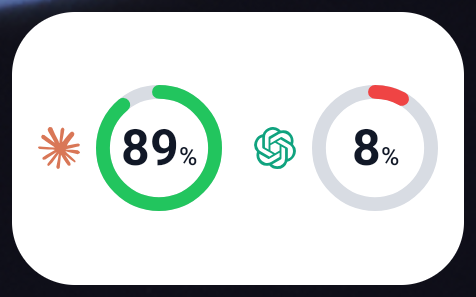
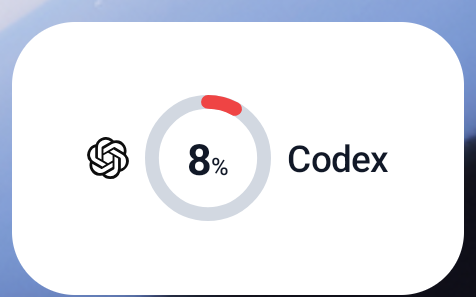
feat(android): a Gemini card, three rings on the 4x2, a headline on the 2x1
The 2 x 1 cell keeps its pair while two providers report; a third would leave rings too
small to read at arm's length, so it collapses to the provider closest to its limit. The
4 x 2 divides its width by the number of columns actually drawn instead of assuming two.

Codex takes OpenAI's monochrome — near-white on dark, near-black on light — and the
Gemini mark keeps the Google gradient in the drawable, because a flat tint of that logo
is a different logo. Its arc flags are spaced out: Android's path parser silently draws
a blob for the packed "01" form the SVG uses.

Captured on emulator-5554: android/docs/screenshots/.

Changed region(s): [[0.0882, 0.2727, 0.9412, 0.7576], [0.0, 0.0, 1.0, 1.0], [0.9706, 0.7879, 1.0, 0.8182]]

diff --git a/android/app/src/main/kotlin/com/gorisse/thomas/quota/widget/QuotaWidget.kt b/android/app/src/main/kotlin/com/gorisse/thomas/quota/widget/QuotaWidget.kt
@@ -33,7 +33,6 @@ import androidx.glance.layout.size
 import androidx.glance.text.FontWeight
 import androidx.glance.text.Text
 import androidx.glance.text.TextStyle
-import androidx.glance.unit.ColorProvider
 import com.gorisse.thomas.quota.MainActivity
 import com.gorisse.thomas.quota.R
 import com.gorisse.thomas.quota.data.DisplayMode
@@ -50,8 +49,8 @@ import com.gorisse.thomas.quota.ui.theme.accent
 import com.gorisse.thomas.quota.ui.theme.argb
 
 /**
- * Two layouts, chosen by cell size: 2×1 shows the two 5 h rings, 4×2 shows every window with
- * its label. The widget never fetches — [RefreshWorker] does, then calls `updateAll`.
+ * Two layouts, chosen by cell size: 2×1 shows the headline rings, 4×2 shows every window
+ * with its label. The widget never fetches — [RefreshWorker] does, then calls `updateAll`.
  */
 class QuotaWidget : GlanceAppWidget() {
 
@@ -120,12 +119,13 @@ private fun SmallContent(snapshot: Snapshot, mode: DisplayMode) {
     val stale = snapshot.isStale()
     val size = LocalSize.current
     val height = size.height.value
-    // The card takes 4 dp a side, each half then takes 6 dp a side (see the Row below).
-    val perHalf = size.width.value / 2 - 4 - 2 * 6
-    val diameter = minOf(height - 30, perHalf - SMALL_MARK_DP - SMALL_GAP_DP).toInt()
+    val shown = snapshot.smallProviders()
+    // The card takes 4 dp a side, each share then takes 6 dp a side (see the Row below).
+    val perShare = size.width.value / shown.size - 4 - 2 * 6
+    val diameter = minOf(height - 30, perShare - SMALL_MARK_DP - SMALL_GAP_DP).toInt()
     val ringFits = height >= 56 && diameter >= 30
     Row(GlanceModifier.fillMaxWidth(), verticalAlignment = Alignment.Vertical.CenterVertically) {
-        ProviderId.entries.forEach { id ->
+        shown.forEach { id ->
             val window = snapshot.status.providers[id.key]?.sessionWindow()
             Row(
                 // Without this the second provider's mark sits closer to the first
@@ -138,6 +138,16 @@ private fun SmallContent(snapshot: Snapshot, mode: DisplayMode) {
                     ProviderMark(id, sizeDp = SMALL_MARK_DP)
                     Spacer(GlanceModifier.size(SMALL_GAP_DP.dp))
                     MiniRing(window, stale, diameterDp = diameter.coerceAtMost(48), mode = mode)
+                    if (shown.size == 1) {
+                        // Alone in the cell, the headline can afford to name itself.
+                        Spacer(GlanceModifier.size(SMALL_GAP_DP.dp))
+                        Text(
+                            id.displayName,
+                            style = TextStyle(color = primaryText(), fontSize = 14.sp,
+                                fontWeight = FontWeight.Medium),
+                            maxLines = 1,
+                        )
+                    }
                 } else {
                     // Too tight for a ring at all: the mark and the number, nothing else.
                     ProviderMark(id, sizeDp = 14)
@@ -159,12 +169,17 @@ private fun LargeContent(snapshot: Snapshot, mode: DisplayMode) {
     val stale = snapshot.isStale()
     // Two rings per provider at most: five rings on a 7 cm cell rendered ~6sp values.
     val columns = snapshot.orderedProviders().maxOfOrNull { (_, p) -> p.widgetWindows(2).size } ?: 1
+    // Three providers share the same cell as two did, so the width has to be divided by the
+    // number of columns actually drawn — otherwise the third one's rings overflow their share.
+    val providers = snapshot.orderedProviders().size.coerceAtLeast(1)
     // The cell also has to fit a header, a provider name, a label, a reset time and the
     // footer: give the ring what is left, not what the width alone would allow.
     val diameter = minOf(
-        (LocalSize.current.width.value - 56) / (columns * 2),
+        (LocalSize.current.width.value - 24 - 8 * providers) / (providers * columns) - 4,
         LocalSize.current.height.value - 100,
-    ).toInt().coerceIn(36, 58)
+    ).toInt().coerceIn(28, 58)
+    // Three columns cannot also carry the plan chip: the provider name alone has to fit.
+    val roomy = providers <= 2
     Column(GlanceModifier.fillMaxSize(), verticalAlignment = Alignment.Vertical.CenterVertically) {
         Row(GlanceModifier.fillMaxWidth(), verticalAlignment = Alignment.Vertical.CenterVertically) {
             Text("Quota", style = TextStyle(color = primaryText(), fontSize = 14.sp, fontWeight = FontWeight.Bold))
@@ -185,8 +200,9 @@ private fun LargeContent(snapshot: Snapshot, mode: DisplayMode) {
                     Row(verticalAlignment = Alignment.Vertical.CenterVertically) {
                         ProviderMark(ProviderId.of(name.lowercase()))
                         Spacer(GlanceModifier.size(5.dp))
-                        Text(name, style = TextStyle(color = primaryText(), fontSize = 13.sp, fontWeight = FontWeight.Bold))
-                        provider.plan?.let {
+                        Text(name, style = TextStyle(color = primaryText(),
+                            fontSize = if (roomy) 13.sp else 12.sp, fontWeight = FontWeight.Bold), maxLines = 1)
+                        if (roomy) provider.plan?.let {
                             Text(" · " + it.replaceFirstChar(Char::uppercase),
                                 style = TextStyle(color = secondaryText(), fontSize = 11.sp), maxLines = 1)
                         }
@@ -197,10 +213,12 @@ private fun LargeContent(snapshot: Snapshot, mode: DisplayMode) {
                             Column(GlanceModifier.defaultWeight(), horizontalAlignment = Alignment.Horizontal.CenterHorizontally) {
                                 MiniRing(window, stale, diameter, mode)
                                 Spacer(GlanceModifier.size(2.dp))
-                                Text(window.label, style = TextStyle(color = primaryText(), fontSize = 12.sp,
+                                Text(window.label, style = TextStyle(color = primaryText(),
+                                    fontSize = if (roomy) 12.sp else 11.sp,
                                     fontWeight = FontWeight.Medium), maxLines = 1)
                                 Text(formatResetsInShort(window.resetsIn()),
-                                    style = TextStyle(color = secondaryText(), fontSize = 11.sp), maxLines = 1)
+                                    style = TextStyle(color = secondaryText(),
+                                        fontSize = if (roomy) 11.sp else 10.sp), maxLines = 1)
                             }
                         }
                     }
@@ -284,18 +302,48 @@ private fun MiniRing(window: Window?, stale: Boolean, diameterDp: Int, mode: Dis
     }
 }
 
-/** The real brand mark, tinted with the provider accent — the same one the app shows. */
+/**
+ * The real brand mark, the same one the app shows. Claude and Codex are tinted with their
+ * accent — a day/night pair for Codex, whose brand is monochrome and would otherwise vanish
+ * against one of the two surfaces. The Gemini mark keeps the gradient baked in its drawable.
+ */
 @Composable
 private fun ProviderMark(id: ProviderId?, sizeDp: Int = 14) {
     if (id == null) return
+    if (id == ProviderId.GEMINI) {
+        Image(
+            provider = ImageProvider(R.drawable.ic_brand_gemini),
+            contentDescription = null,
+            modifier = GlanceModifier.size(sizeDp.dp),
+        )
+        return
+    }
     Image(
         provider = ImageProvider(
             if (id == ProviderId.CODEX) R.drawable.ic_brand_openai else R.drawable.ic_brand_claude,
         ),
         contentDescription = null,
-        colorFilter = ColorFilter.tint(ColorProvider(id.accent)),
+        colorFilter = ColorFilter.tint(
+            DayNightColorProvider(day = id.accent(dark = false), night = id.accent(dark = true)),
+        ),
         modifier = GlanceModifier.size(sizeDp.dp),
     )
+}
+
+/**
+ * Which providers a 2 x 1 cell shows. One or two are drawn side by side, as they always
+ * were; a third would leave rings too small to read at arm's length, so the row collapses to
+ * the headline — the provider closest to its limit.
+ */
+private fun Snapshot.smallProviders(): List<ProviderId> {
+    val reported = ProviderId.entries.filter {
+        status.providers[it.key]?.windows.orEmpty().isNotEmpty()
+    }
+    return when {
+        reported.isEmpty() -> listOf(ProviderId.CLAUDE, ProviderId.CODEX)
+        reported.size <= 2 -> reported
+        else -> listOf(reported.maxBy { status.providers[it.key]?.sessionWindow()?.percent ?: -1 })
+    }
 }
 
 private fun Provider.sessionWindow(): Window? = widgetWindows(1).firstOrNull()

diff --git a/android/app/src/main/kotlin/com/gorisse/thomas/quota/ui/Brand.kt b/android/app/src/main/kotlin/com/gorisse/thomas/quota/ui/Brand.kt
@@ -20,6 +20,7 @@ import androidx.compose.ui.unit.sp
 import com.gorisse.thomas.quota.R
 import com.gorisse.thomas.quota.data.ProviderId
 import com.gorisse.thomas.quota.ui.theme.accent
+import com.gorisse.thomas.quota.ui.theme.accentBrush
 
 @Composable
 fun QuotaWordmark(modifier: Modifier = Modifier) {
@@ -35,27 +36,44 @@ fun QuotaWordmark(modifier: Modifier = Modifier) {
 }
 
 /**
- * The providers' real marks: `docs/brand/claude.svg` and `docs/brand/openai.svg`, converted
- * to 24 × 24 vector drawables, tinted with the provider accent inside its rounded square.
+ * The providers' real marks: `docs/brand/claude.svg`, `openai.svg` and `gemini.svg`,
+ * converted to 24 × 24 vector drawables inside a rounded square of their own accent.
+ *
+ * Claude and Codex are single-colour marks and take the accent as a tint. The Gemini mark
+ * carries the Google sweep in the drawable itself, so it is drawn untinted and its tile
+ * takes the same sweep rather than a flat wash.
  */
 @Composable
 fun ProviderMark(id: ProviderId?, modifier: Modifier = Modifier, size: Dp = 32.dp) {
-    val color = id?.accent ?: MaterialTheme.colorScheme.onSurfaceVariant
+    val fallback = MaterialTheme.colorScheme.onSurfaceVariant
+    val color = id?.accent() ?: fallback
     Box(
         modifier = modifier
             .size(size)
-            .background(color.copy(alpha = 0.12f), RoundedCornerShape(size / 4)),
+            .background(
+                brush = id?.accentBrush(0.12f) ?: androidx.compose.ui.graphics.SolidColor(fallback.copy(alpha = 0.12f)),
+                shape = RoundedCornerShape(size / 4),
+            ),
         contentAlignment = Alignment.Center,
     ) {
         val mark = when (id) {
             ProviderId.CODEX -> R.drawable.ic_brand_openai
+            ProviderId.GEMINI -> R.drawable.ic_brand_gemini
             else -> R.drawable.ic_brand_claude
         }
-        Icon(
-            painter = painterResource(mark),
-            contentDescription = null,
-            tint = color,
-            modifier = Modifier.size(size * 0.58f),
-        )
+        if (id == ProviderId.GEMINI) {
+            androidx.compose.foundation.Image(
+                painter = painterResource(mark),
+                contentDescription = null,
+                modifier = Modifier.size(size * 0.58f),
+            )
+        } else {
+            Icon(
+                painter = painterResource(mark),
+                contentDescription = null,
+                tint = color,
+                modifier = Modifier.size(size * 0.58f),
+            )
+        }
     }
 }

diff --git a/android/app/src/main/kotlin/com/gorisse/thomas/quota/ui/theme/Color.kt b/android/app/src/main/kotlin/com/gorisse/thomas/quota/ui/theme/Color.kt
@@ -25,7 +25,21 @@ object QuotaColors {
     val Stale = Color(0xFF6B7280)
 
     val Claude = Color(0xFFD97757)
-    val Codex = Color(0xFF10A37F)
+
+    /**
+     * OpenAI retired the ChatGPT green in its 2025 rebrand and is monochrome now. Their black
+     * would vanish on [BackgroundDark], so each theme takes its own end of the pair.
+     */
+    val CodexDark = Color(0xFFECECEC)
+    val CodexLight = Color(0xFF0D0D0D)
+
+    /** The Gemini mark is a blue → violet → pink sweep, drawn as one wherever it is cheap. */
+    val GeminiStart = Color(0xFF4285F4)
+    val GeminiMid = Color(0xFF9B72CB)
+    val GeminiEnd = Color(0xFFD96570)
+
+    /** The flat fallback, for a history stroke or anything else that takes one colour. */
+    val Gemini = Color(0xFF8E75B2)
 
     /**
      * Ring track. It used to be the value colour at 15 % opacity, which left the empty part
@@ -58,10 +72,33 @@ val Severity.color: Color
 /** The same severity colour for the widget, which draws with `android.graphics.Paint`. */
 val Severity.argb: Int get() = color.toArgb()
 
-val ProviderId.accent: Color
-    get() = when (this) {
-        ProviderId.CLAUDE -> QuotaColors.Claude
-        ProviderId.CODEX -> QuotaColors.Codex
+/** The provider accent for one theme. Only Codex differs between the two. */
+fun ProviderId.accent(dark: Boolean): Color = when (this) {
+    ProviderId.CLAUDE -> QuotaColors.Claude
+    ProviderId.CODEX -> if (dark) QuotaColors.CodexDark else QuotaColors.CodexLight
+    ProviderId.GEMINI -> QuotaColors.Gemini
+}
+
+@androidx.compose.runtime.Composable
+fun ProviderId.accent(): Color = accent(androidx.compose.foundation.isSystemInDarkTheme())
+
+/**
+ * What fills the mark's rounded square: one flat tint, except Gemini, whose brand is the
+ * sweep itself — the same choice the web dashboard makes with a conic gradient.
+ */
+@androidx.compose.runtime.Composable
+fun ProviderId.accentBrush(alpha: Float): androidx.compose.ui.graphics.Brush =
+    if (this == ProviderId.GEMINI) {
+        androidx.compose.ui.graphics.Brush.sweepGradient(
+            listOf(
+                QuotaColors.GeminiStart.copy(alpha = alpha),
+                QuotaColors.GeminiMid.copy(alpha = alpha),
+                QuotaColors.GeminiEnd.copy(alpha = alpha),
+                QuotaColors.GeminiStart.copy(alpha = alpha),
+            ),
+        )
+    } else {
+        androidx.compose.ui.graphics.SolidColor(accent().copy(alpha = alpha))
     }
 
 /** Keep the semantic hues, with accessible text contrast on white. */

diff --git a/android/app/src/main/kotlin/com/gorisse/thomas/quota/ui/ProviderHistory.kt b/android/app/src/main/kotlin/com/gorisse/thomas/quota/ui/ProviderHistory.kt
@@ -27,10 +27,15 @@ private data class HistoryPoint(val time: Long, val session: Float?, val weekly:
 fun ProviderHistory(
     provider: String, history: List<JsonElement>, stale: Boolean, now: Instant,
     mode: DisplayMode = DisplayMode.REMAINING,
+    /**
+     * The two window ids to plot, primary first. Claude and Codex meter time windows, Gemini
+     * meters models, so the series keys cannot be hardcoded here.
+     */
+    windowIds: List<String> = listOf("session", "weekly"),
 ) {
     val end = now.toEpochMilli()
     val start = end - 86_400_000L
-    val points = remember(provider, history, mode) {
+    val points = remember(provider, history, mode, windowIds) {
         history.mapNotNull { element ->
             val obj = element as? JsonObject ?: return@mapNotNull null
             val time = (obj["t"] as? JsonPrimitive)?.contentOrNull
@@ -39,11 +44,11 @@ fun ProviderHistory(
             fun shown(window: String) = (obj["$provider.$window"] as? JsonPrimitive)
                 ?.floatOrNull?.takeIf { it.isFinite() }
                 ?.let { (if (mode.isUsed) it else 100f - it).coerceIn(0f, 100f) }
-            HistoryPoint(time, shown("session"), shown("weekly"))
+            HistoryPoint(time, windowIds.getOrNull(0)?.let(::shown), windowIds.getOrNull(1)?.let(::shown))
         }.sortedBy { it.time }
     }.filter { it.time in start..end }
     val hasData = points.count { it.session != null } >= 2 || points.count { it.weekly != null } >= 2
-    val accent = if (stale) QuotaColors.Stale else ProviderId.of(provider)?.accent ?: QuotaColors.Stale
+    val accent = if (stale) QuotaColors.Stale else ProviderId.of(provider)?.accent() ?: QuotaColors.Stale
     val line = MaterialTheme.colorScheme.outlineVariant
     Column(verticalArrangement = Arrangement.spacedBy(8.dp)) {
         HorizontalDivider(color = line)

diff --git a/android/app/src/main/kotlin/com/gorisse/thomas/quota/data/DemoData.kt b/android/app/src/main/kotlin/com/gorisse/thomas/quota/data/DemoData.kt
@@ -27,6 +27,8 @@ object DemoData {
                 put("claude.weekly", 44 + hour)
                 put("codex.session", 20 + hour * 3)
                 put("codex.weekly", 10 + hour)
+                put("gemini.gemini-3-pro", 20 + hour * 2)
+                put("gemini.gemini-2-5-pro", 6 + hour)
             }
         },
         providers = mapOf(
@@ -43,6 +45,15 @@ object DemoData {
                     window("session", "5 h", 92, now + Duration.ofMinutes(37)),
                     window("weekly", "Week", 34, now + Duration.ofHours(140)),
                     window("reserve", "Reserve", 10, now + Duration.ofHours(96)),
+                ),
+            ),
+            // The Code Assist buckets are per model, most consumed first, so the headline
+            // window is a model name rather than a time window.
+            "gemini" to Provider(
+                plan = "Standard",
+                windows = listOf(
+                    window("gemini-3-pro", "3 Pro", 62, now + Duration.ofMinutes(315)),
+                    window("gemini-2-5-pro", "2.5 Pro", 29, now + Duration.ofHours(14)),
                 ),
             ),
         ),

diff --git a/android/app/src/main/kotlin/com/gorisse/thomas/quota/ui/PairingScreen.kt b/android/app/src/main/kotlin/com/gorisse/thomas/quota/ui/PairingScreen.kt
@@ -92,6 +92,7 @@ fun PairingScreen(
         Row(horizontalArrangement = Arrangement.spacedBy(8.dp)) {
             ProviderMark(ProviderId.CLAUDE)
             ProviderMark(ProviderId.CODEX)
+            ProviderMark(ProviderId.GEMINI)
         }
         Text(
             text = "Your AI usage,\nat a glance.",
@@ -99,7 +100,7 @@ fun PairingScreen(
             color = MaterialTheme.colorScheme.onSurface,
         )
         Text(
-            text = "Connect Claude and Codex to see what’s left, when it resets, and how your usage changes.",
+            text = "Connect Claude, Codex and Gemini to see what’s left, when it resets, and how your usage changes.",
             style = MaterialTheme.typography.bodyMedium,
             color = MaterialTheme.colorScheme.onSurfaceVariant,
         )

diff --git a/android/app/src/main/kotlin/com/gorisse/thomas/quota/data/Status.kt b/android/app/src/main/kotlin/com/gorisse/thomas/quota/data/Status.kt
@@ -94,10 +94,14 @@ enum class Severity(val wire: String) {
     }
 }
 
-/** Display order and labels for the two providers this version knows about. */
+/**
+ * Display order and labels for the providers this version knows about. Gemini only appears
+ * once the worker reports it: an unpaired Gemini CLI is an absent provider, not an empty card.
+ */
 enum class ProviderId(val key: String, val displayName: String) {
     CLAUDE("claude", "Claude"),
-    CODEX("codex", "Codex");
+    CODEX("codex", "Codex"),
+    GEMINI("gemini", "Gemini");
 
     companion object {
         fun of(key: String): ProviderId? = entries.firstOrNull { it.key == key }

diff --git a/android/app/src/main/kotlin/com/gorisse/thomas/quota/ui/HomeScreen.kt b/android/app/src/main/kotlin/com/gorisse/thomas/quota/ui/HomeScreen.kt
@@ -206,7 +206,10 @@ private fun ProviderCard(
                         showDetails = false, mode = mode)
                 }
             }
-            ProviderHistory(name.lowercase(), snapshot.status.history, stale, now)
+            ProviderHistory(
+                name.lowercase(), snapshot.status.history, stale, now,
+                windowIds = provider.windows.take(2).map { it.id },
+            )
         }
     }
 }
